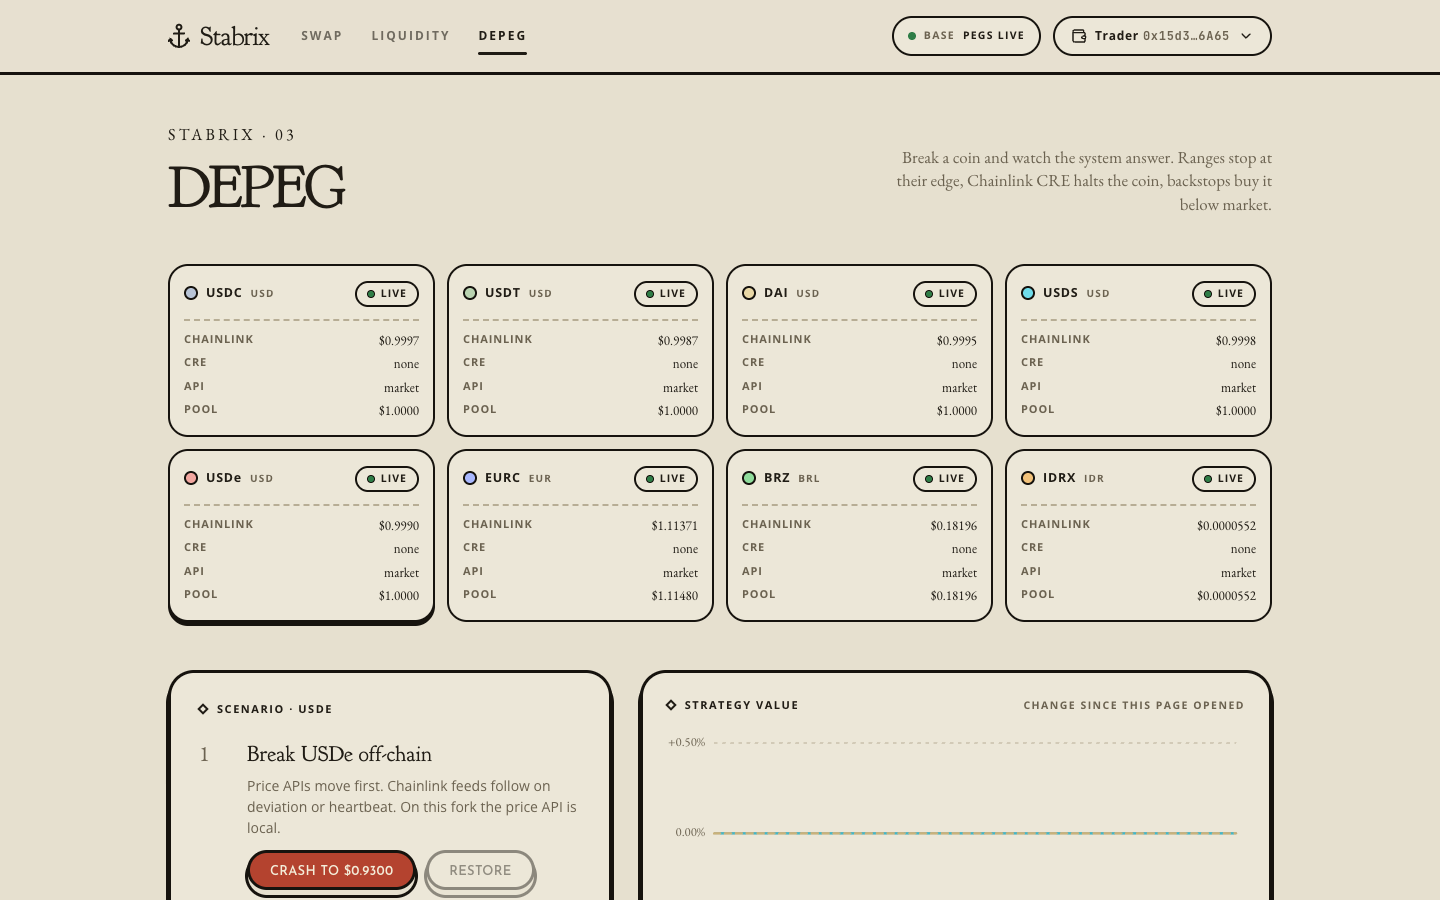
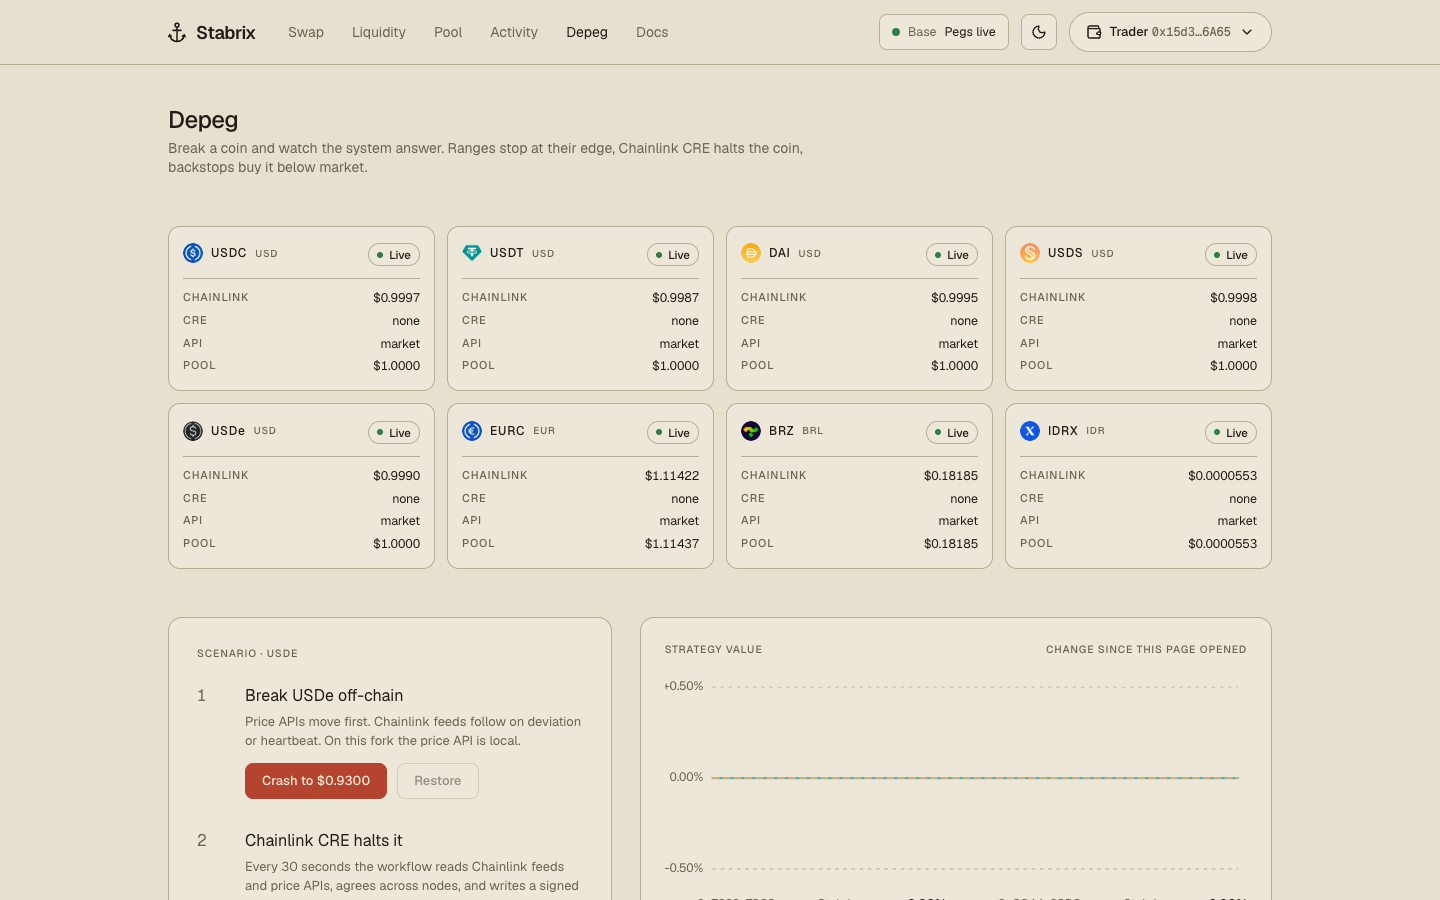
docs: fresh screenshots, live mainnet and Sepolia numbers, demo commands

diff --git a/README.md b/README.md
@@ -4,9 +4,17 @@
 
 ![Landing](docs/screenshots/landing.png)
 
-| Swap | Liquidity | Depeg |
-|---|---|---|
-| ![Swap](docs/screenshots/swap.png) | ![Liquidity](docs/screenshots/liquidity.png) | ![Depeg](docs/screenshots/lab.png) |
+| Swap, live on Base Sepolia | Pool, live on Base Sepolia |
+|---|---|
+| ![Swap](docs/screenshots/swap.png) | ![Pool](docs/screenshots/pool.png) |
+| **Liquidity, Base mainnet fork** | **Depeg, Base mainnet fork** |
+| ![Liquidity](docs/screenshots/liquidity.png) | ![Depeg](docs/screenshots/lab.png) |
+
+The swap quotes $10,000 USDC for 8,965.78 EURC in one leg on 1inch's router, 5.13 bps under the Chainlink rate with the FX fee. The pool holds $41.4M of test coins in FX ranges and $260k pledged to backstops, all still in one wallet.
+
+| Mobile |  |
+|---|---|
+| ![Mobile landing](docs/screenshots/mobile-landing.png) | ![Mobile swap](docs/screenshots/mobile-swap.png) |
 
 ## What it does
 
@@ -56,7 +64,7 @@ The same balance backs both strategies, because Aqua only records allowances and
 | What | Where |
 |---|---|
 | Workflow | `cre/depeg-sentinel/main.go` (cron, one Multicall3 read, two HTTP fetches with consensus, report, EVM write) |
-| Policy | `cre/depeg-sentinel/policy.go`: 3% off peg halts, both sources past 0.75% halt, a halted coin resumes inside 0.25%. An offchain halt needs every configured API to agree; a Chainlink feed can halt alone. FX rates push on a 2 bp move or every 10 minutes |
+| Policy | `cre/depeg-sentinel/policy.go`: 3% off peg halts, both sources past 0.75% halt, a halted coin resumes once every source that answered is back inside 0.25%, so one lagging API cannot lift a halt. An offchain halt needs every configured API to agree; a Chainlink feed can halt alone. FX rates push on a 2 bp move or every 10 minutes |
 | Consumer | `contracts/src/StabrixOracle.sol`: accepts reports only from the forwarder and the set workflow owner, uses a CRE rate only if fresh and within 0.5% of the Chainlink feed, refuses swaps on a stale feed, keeps guardian halts separate |
 | Simulation | Run against the fork and a Base Sepolia fork with `--broadcast`; the reports change prices and halts onchain |
 
@@ -70,7 +78,7 @@ The same balance backs both strategies, because Aqua only records allowances and
 | Uses SwapVM, own instructions allowed | Done | Two new instructions, `StabrixTick` (34) and `StabrixBackstop` (35), in `contracts/src/StabrixRouter.sol` |
 | Positions shown through tests or a UI | Done | 80 Foundry tests and the Liquidity, Pool and Activity pages |
 | Official Aqua and SwapVM contracts (modified SwapVM redeploy allowed) | Done | Official Aqua `0x1111113C...a90a` and AquaSwapVMRouter `0x111111338c...C0De` on Base; our router is SwapVM v1.0.2 with two added instructions. `contracts/test/fork/BaseFork.t.sol` |
-| Onchain token transfers in the demo (local forks ok) | Done | Swaps, range and backstop fills on the Base fork through the app, quotes equal to the chain to the wei; a live swap on Base Sepolia, tx `0x550f...4bc6` |
+| Onchain token transfers in the demo (local forks ok) | Done | Live on Base mainnet with real USDC and EURC on the official Aqua and router (seed txs below); live swaps and a backstop depeg sale on Base Sepolia (`docs/evidence/sepolia-costs.txt`, `docs/evidence/sepolia-depeg.txt`); swaps, range and backstop fills on the Base fork through the app, quotes equal to the chain to the wei |
 | Proper git history | Ongoing | Small commits per change; keep committing through the final day |
 
 **Chainlink, Best workflow with CRE**
@@ -90,7 +98,8 @@ All on a Base mainnet fork with real tokens and both 1inch routers, unless noted
 |---|---|
 | $10,000 USDC to DAI, live on Base Sepolia from a fresh wallet | 9,998.88 DAI, 1.12 bps with the fee, equal to the quote: [0xe8c89fee...3003](https://sepolia.basescan.org/tx/0xe8c89fee79fec9cb8daaa142a622a409e00c1d579c22ed34b7968109bfd63003) |
 | $10,000 USDC to EURC, live on Base Sepolia | 8,965.68 EURC, 5.24 bps with the FX fee: [0x02cb7a18...895d](https://sepolia.basescan.org/tx/0x02cb7a187e5521a770386bb79b6ec95bcb15109785a4494c2e6c2e586dc5895d) |
-| Base Sepolia cost table (`npm run costs`) | USD to USD: 1.01 / 1.12 / 2.21 bps at $1k / $10k / $100k. USD to EUR: 5.01 / 5.12 / 6.21 bps. Log in `docs/evidence/sepolia-costs.txt` |
+| Base Sepolia cost table (`npm run costs`), measured Nov 7 | USD to USD: 1.03 / 1.14 / 2.23 bps at $1k / $10k / $100k. USD to EUR: 5.02 / 5.13 / 6.22 bps. One leg each, fees included. Log in `docs/evidence/sepolia-costs.txt` |
+| Base mainnet, real money | $1.70 of USDC and EURC backs $3.74 of strategies on both 1inch routers, a shared liquidity ratio of 2.20x; the full deploy cost 0.0000656 ETH (about $0.15) |
 | Depeg on Base Sepolia (`npm run depeg:testnet`) | Guardian halts test USDe at $0.93, every range refuses it, a fresh wallet sells 5,000 USDe to two backstops (one per router) for 4,549.25 USDC: [0x01521a82...b7b8](https://sepolia.basescan.org/tx/0x01521a820a999ee5489f34f18d396965eb1f602f6b58e6c10caabc39e0ddb7b8), then resumed. Log in `docs/evidence/sepolia-depeg.txt` |
 | 10,000 USDC to DAI on the fork | 9,986.96 DAI (0.13%) with thin seed liquidity, SDK quote equal to the chain to the wei |
 | 5,000 USDC to EURC | 4,468.37 EURC, 0.23% against Chainlink EUR/USD, FX fee included |
@@ -112,7 +121,7 @@ npm run price-api -w @stabrix/ops
 cd app && NEXT_PUBLIC_DEV_ACCOUNTS=1 NEXT_PUBLIC_RPC_URL=http://127.0.0.1:8556 DEPLOYMENT_NAME=base-fork-fx npx next dev -p 3000
 ```
 
-`devnet.sh` forks Base, deploys with the CRE simulation forwarder, ships three FX ranges and two backstops, and writes the fork CRE config. Fork accounts are anvil's public keys and only appear with `NEXT_PUBLIC_DEV_ACCOUNTS=1`. The fork freezes Chainlink's feeds while new blocks use the real clock, so FX swaps stop with a stale rate about 75 minutes after it starts; restart it before a demo.
+`devnet.sh` forks Base, deploys with the CRE simulation forwarder, ships three FX ranges and two backstops, and writes the fork CRE config. Fork accounts are anvil's public keys and only appear with `NEXT_PUBLIC_DEV_ACCOUNTS=1`; hosted builds never include them. A fork freezes Chainlink's feeds while new blocks use the real clock, so `devnet.sh` deploys the fork oracle with a 30 day feed age; Sepolia and mainnet keep the real limits (75 minutes for FX feeds, 25 hours for market feeds).
 
 Chainlink CRE on the fork (from `cre/`, after `cre login`, with `CRE_ETH_PRIVATE_KEY` in `cre/.env` set to a funded anvil key):
 
@@ -120,28 +129,11 @@ Chainlink CRE on the fork (from `cre/`, after `cre login`, with `CRE_ETH_PRIVATE
 cre workflow simulate depeg-sentinel -T fork-settings --broadcast --non-interactive --trigger-index 0
 ```
 
-The app has five pages: Swap, Liquidity (open FX ranges and pledge backstops), Pool (reserve mix, liquidity by depeg tolerance, every strategy), Activity (swaps, strategies and CRE reports read from the chain) and Depeg. The Depeg page crashes a coin through the local price API, shows this command, and charts every strategy while the workflow halts the coin and backstops buy it.
+The app has five pages: Swap, Liquidity (open FX ranges and pledge backstops), Pool (reserve mix, liquidity by depeg tolerance, every strategy), Activity (swaps, strategies and CRE reports read from the chain) and Depeg. The Depeg page crashes a coin through the local price API, shows this command, and charts every strategy while the workflow halts the coin and backstops buy it. The Depeg page only exists on the fork; on Sepolia the same flow runs with `npm run depeg:testnet` (below).
 
-## Base Sepolia
+Any EIP-6963 wallet works, and the app switches it to the right Base network on its own. The swap page says whether Chainlink CRE or the guardian halted a coin, which coins a backstop pays in, and when a Chainlink rate is stale.
 
-1inch has not deployed Aqua or the SwapVM router on Base Sepolia, so the deploy script deploys their unmodified source next to Stabrix, with mock stablecoins and testnet FX feeds. Chainlink's CRE simulation forwarder is already there. This flow was rehearsed end to end on a local fork of Base Sepolia.
-
-```bash
-cd contracts
-PRIVATE_KEY=<key> CRE_FORWARDER=0x82300bd7c3958625581cc2F77bC6464dcEcDF3e5 \
-CRE_WORKFLOW_OWNER=0xaAaAaAaaAaAaAaaAaAAAAAAAAaaaAaAaAaaAaaAa \
-  forge script script/Deploy.s.sol --tc Deploy --rpc-url https://sepolia.base.org --broadcast
-cd ../ops
-export RPC_URL=https://sepolia.base.org PRIVATE_KEY=<key>
-npm run sync-feeds
-npm run seed:testnet
-npm run cre-config -- testnet
-cd ../cre && cre workflow simulate depeg-sentinel -T testnet-settings --broadcast --non-interactive --trigger-index 0
-```
-
-This writes `deployments/84532.json`.
-
-### Live on Base mainnet
+## Live on Base mainnet
 
 Deployed against 1inch's official Aqua and AquaSwapVMRouter on Base, with real USDC and EURC.
 
@@ -160,7 +152,7 @@ Seeded with a small amount of real money by `npm run seed:mainnet`: one wallet h
 
 The oracle accepts Chainlink CRE reports only from Chainlink's production forwarder and only once a workflow owner is set, which needs CRE deploy access. Until then FX rates come straight from the Chainlink feeds onchain and only the guardian can halt a coin.
 
-### Live on Base Sepolia
+## Live on Base Sepolia
 
 | Contract | Address |
 |---|---|
@@ -175,17 +167,47 @@ The oracle accepts Chainlink CRE reports only from Chainlink's production forwar
 
 Seeded with test coins (free to mint) by `npm run seed:testnet`: four FX ranges, the deepest a Tight range of $5,000,000 per coin on the 1inch router, plus Tight, Balanced and Wide ranges, and two Standard backstops (caps of $20,000 and $100,000 per halted coin) pledging $130,000 of USDC and $130,000 of USDT in total from the same wallet. A first test swap of 1,000 USDC for 999.75 DAI: [0x550fba65...4bc6](https://sepolia.basescan.org/tx/0x550fba656dce936c1752d838825e23b9a85335b272238882ee6572e458844bc6). A real CRE CLI simulation wrote live CoinGecko and DefiLlama prices to the oracle: [0x9b38b774...7e77](https://sepolia.basescan.org/tx/0x9b38b774b71255ec54cd13c0ba9a76d2d16f0699919890a8557e45ebf7697e77), log in `docs/evidence/cre-simulate-sepolia.txt`.
 
-`https://sepolia.base.org` limits `eth_getLogs` to 200 blocks, which is too small for strategy discovery. Use `https://base-sepolia-rpc.publicnode.com` as `RPC_URL` for ops and `NEXT_PUBLIC_RPC_URL` for the app.
- `0xaAaA...aAaA` is the owner the CRE simulator reports as; a production deploy sets the real workflow owner instead. `sync-feeds` copies today's Base mainnet Chainlink EUR, BRL and IDR rates into the testnet feeds. With `--broadcast` the simulation sends a real transaction from `CRE_ETH_PRIVATE_KEY` in `cre/.env`, so on Base Sepolia that must be your own key with test ETH, never a public anvil key.
+Run the demos against it (each trade uses a fresh wallet funded by the deployer, so the quote skips no strategy):
+
+```bash
+cd ops
+export RPC_URL=https://base-sepolia-rpc.publicnode.com PRIVATE_KEY=<deployer key>
+npm run costs                                  # cost table at $1k, $10k, $100k
+npm run trade:testnet -- USDC EURC 10000       # one live swap, prints cost and tx
+npm run depeg:testnet -- halt USDe 0.93        # guardian halt plus a $0.93 market price
+npm run depeg:testnet -- sell USDe 5000        # ranges refuse USDe, backstops buy it
+npm run depeg:testnet -- resume USDe
+```
+
+Real coins on Sepolia never depeg, so the oracle owner plays the part with a guardian halt; on mainnet the same halt comes from Chainlink CRE. Logs in `docs/evidence/sepolia-costs.txt` and `docs/evidence/sepolia-depeg.txt`.
+
+## Deploy to Base Sepolia
+
+1inch has not deployed Aqua or the SwapVM router on Base Sepolia, so the deploy script deploys their unmodified source next to Stabrix, with mock stablecoins and testnet FX feeds. Chainlink's CRE simulation forwarder is already there.
+
+```bash
+cd contracts
+PRIVATE_KEY=<key> CRE_FORWARDER=0x82300bd7c3958625581cc2F77bC6464dcEcDF3e5 \
+CRE_WORKFLOW_OWNER=0xaAaAaAaaAaAaAaaAaAAAAAAAAaaaAaAaAaaAaaAa \
+  forge script script/Deploy.s.sol --tc Deploy --rpc-url https://sepolia.base.org --broadcast
+cd ../ops
+export RPC_URL=https://base-sepolia-rpc.publicnode.com PRIVATE_KEY=<key>
+npm run sync-feeds
+npm run seed:testnet
+npm run cre-config -- testnet
+cd ../cre && cre workflow simulate depeg-sentinel -T testnet-settings --broadcast --non-interactive --trigger-index 0
+```
+
+This writes `deployments/84532.json`. `https://sepolia.base.org` limits `eth_getLogs` to 200 blocks, which is too small for strategy discovery, so ops and the app read through `https://base-sepolia-rpc.publicnode.com`. `0xaAaA...aAaA` is the owner the CRE simulator reports as; a production deploy sets the real workflow owner instead. `sync-feeds` copies today's Base mainnet Chainlink EUR, BRL and IDR rates into the testnet feeds. With `--broadcast` the simulation sends a real transaction from `CRE_ETH_PRIVATE_KEY` in `cre/.env`, so on Base Sepolia that must be your own key with test ETH, never a public anvil key.
 
 ## Hosting
 
-The app runs on Vercel's free tier with the project root set to `app`. The selected deployment file is bundled with the `/api/deployment` route.
+The app runs on Vercel's free tier: import the repo, set Root Directory to `app`, add the variables below, deploy. The selected deployment file is bundled with the `/api/deployment` route. Leave `NEXT_PUBLIC_DEV_ACCOUNTS` unset on any hosted build.
 
 | Variable | Testnet | Mainnet |
 |---|---|---|
 | `DEPLOYMENT_NAME` | `84532` | `8453` |
-| `NEXT_PUBLIC_RPC_URL` | `https://sepolia.base.org` | `https://mainnet.base.org` |
+| `NEXT_PUBLIC_RPC_URL` | `https://base-sepolia-rpc.publicnode.com` | `https://base-rpc.publicnode.com` |
 
 ## Tests
 
@@ -196,7 +218,7 @@ npm test -w @stabrix/sdk
 cd cre/depeg-sentinel && go test ./...
 ```
 
-Contracts: 71 local tests and 9 Base mainnet fork tests, with fuzzing for LP value, round trips, rate moves and wallet shortfalls. SDK: 144 tests, including byte-for-byte parity with Solidity on generated range and backstop cases. Workflow: 21 tests for the halt policy, price parsing, consensus masks and report encoding.
+Contracts: 71 local tests and 9 Base mainnet fork tests, with fuzzing for LP value, round trips, rate moves and wallet shortfalls. SDK: 145 tests, including byte-for-byte parity with Solidity on generated range and backstop cases. Workflow: 21 tests for the halt policy, price parsing, consensus masks and report encoding.
 
 ## Limitations
 
